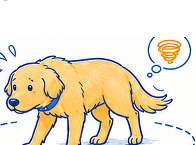
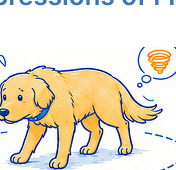
Fix emotion state images again: precise cropping to remove number badges and ensure full dog display. Recropped all 5 dog illustrations with precise boundaries (left:55px to remove orange number badges, right:20px, top:20px, bottom:190px to include full dog body). Changed CSS back to object-fit:cont

diff --git a/index.html b/index.html
@@ -309,8 +309,8 @@ section{position:relative;padding-block:80px}
 .state-panel.active{display:block}
 @keyframes fadeIn{from{opacity:0;transform:translateY(8px)}to{opacity:1;transform:none}}
 .state-panel-header{display:flex;align-items:center;gap:16px;margin-bottom:20px;padding-bottom:16px;border-bottom:1px solid var(--line)}
-.state-icon{width:220px;height:160px;border-radius:16px;display:flex;align-items:center;justify-content:center;font-size:28px;overflow:hidden;flex-shrink:0;background:#fff}
-.state-icon img{width:100%;height:100%;object-fit:cover;display:block;object-position:center}
+.state-icon{width:200px;height:170px;border-radius:16px;display:flex;align-items:center;justify-content:center;font-size:28px;overflow:hidden;flex-shrink:0;background:#fff}
+.state-icon img{width:100%;height:100%;object-fit:contain;display:block;object-position:center}
 .state-panel-header h4{font-size:20px;font-weight:800;margin-bottom:2px}
 .state-panel-header .state-acc{font-size:13px;color:var(--muted)}
 .state-panel-header .state-acc strong{color:var(--primary);font-size:16px}
